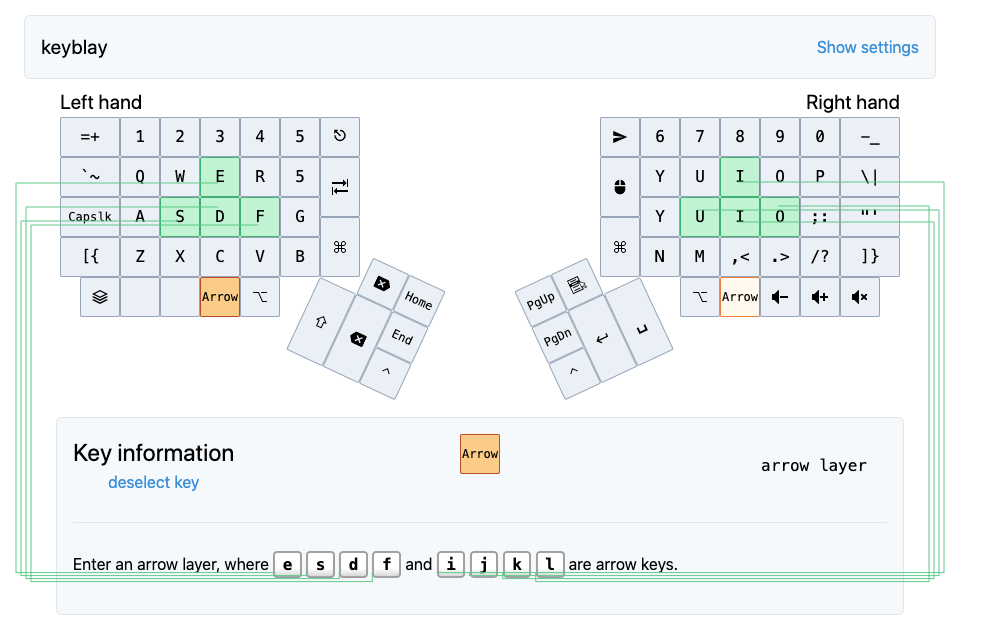
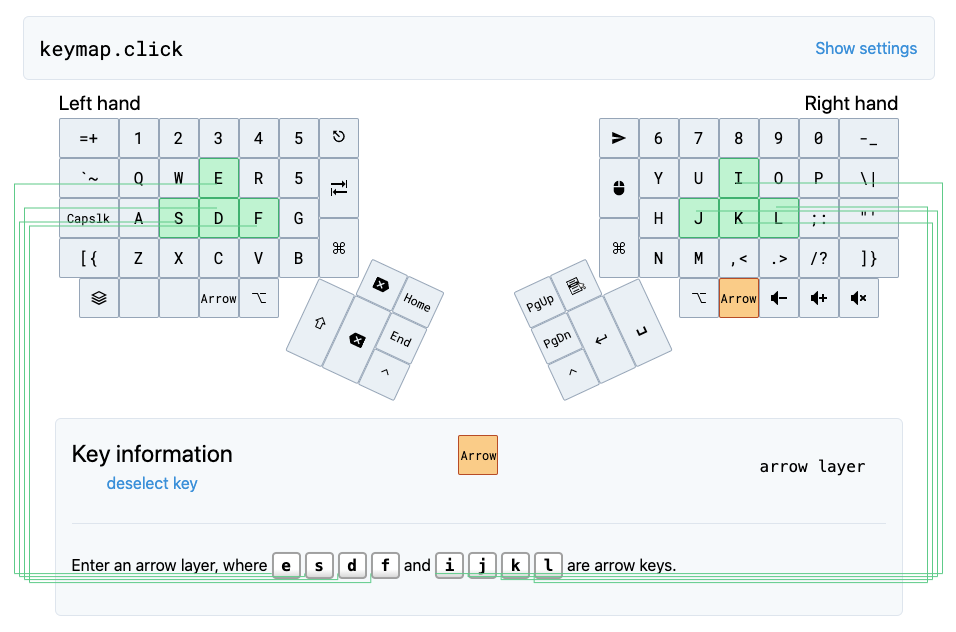
Fix bad HJKL legends

diff --git a/lib/keyLegends/unicodeLegends.js b/lib/keyLegends/unicodeLegends.js
@@ -77,10 +77,10 @@ const UnicodeLegends = {
   "o": { glyph: { value: "O" } },
   "p": { glyph: { value: "P" } },
   "\\": { glyph: { value: ["\\", "|"] } },
-  "h": { glyph: { value: "Y" } },
-  "j": { glyph: { value: "U" } },
-  "k": { glyph: { value: "I" } },
-  "l": { glyph: { value: "O" } },
+  "h": { glyph: { value: "H" } },
+  "j": { glyph: { value: "J" } },
+  "k": { glyph: { value: "K" } },
+  "l": { glyph: { value: "L" } },
   ";": { glyph: { value: [";", ":"] } },
   "'": { glyph: { value: ['"', "'"] } },
 

diff --git a/lib/keyLegends/textLegends.js b/lib/keyLegends/textLegends.js
@@ -112,10 +112,10 @@ const TextLegends = {
       value: ["\\", "|"]
     }
   },
-  "h": { glyph: { value: "Y" } },
-  "j": { glyph: { value: "U" } },
-  "k": { glyph: { value: "I" } },
-  "l": { glyph: { value: "O" } },
+  "h": { glyph: { value: "H" } },
+  "j": { glyph: { value: "J" } },
+  "k": { glyph: { value: "K" } },
+  "l": { glyph: { value: "L" } },
   ";": { glyph: { value: [";", ":"] } },
   "'": { glyph: { value: ['"', "'"] } },
 

diff --git a/lib/keyLegends/mrlLegends.js b/lib/keyLegends/mrlLegends.js
@@ -191,10 +191,10 @@ const MrlLegends = {
       value: ["\\", "|"]
     }
   },
-  "h": { glyph: { value: "Y" } },
-  "j": { glyph: { value: "U" } },
-  "k": { glyph: { value: "I" } },
-  "l": { glyph: { value: "O" } },
+  "h": { glyph: { value: "H" } },
+  "j": { glyph: { value: "J" } },
+  "k": { glyph: { value: "K" } },
+  "l": { glyph: { value: "L" } },
   ";": { glyph: { value: [";", ":"] } },
   "'": { glyph: { value: ['"', "'"] } },
 
